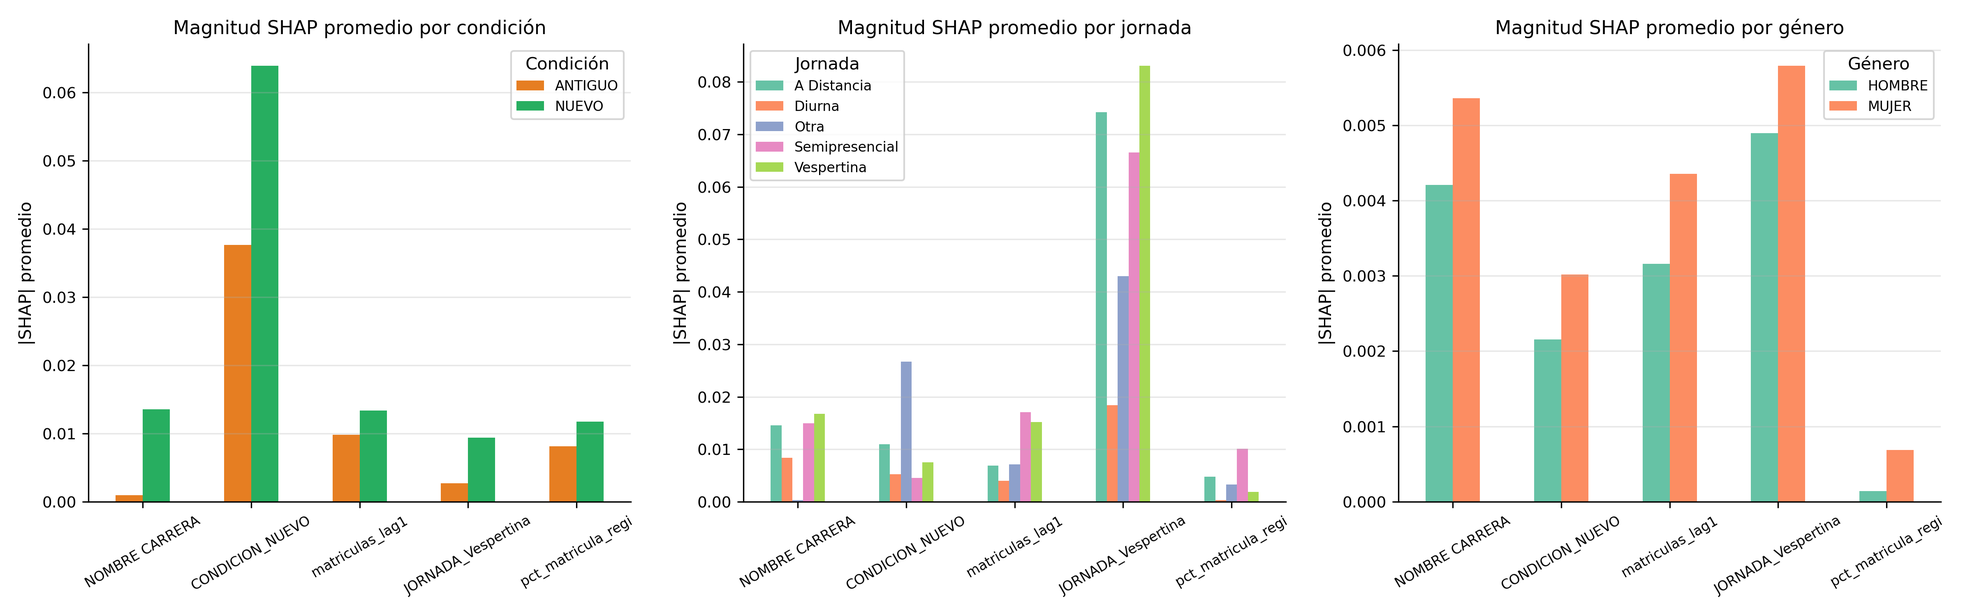
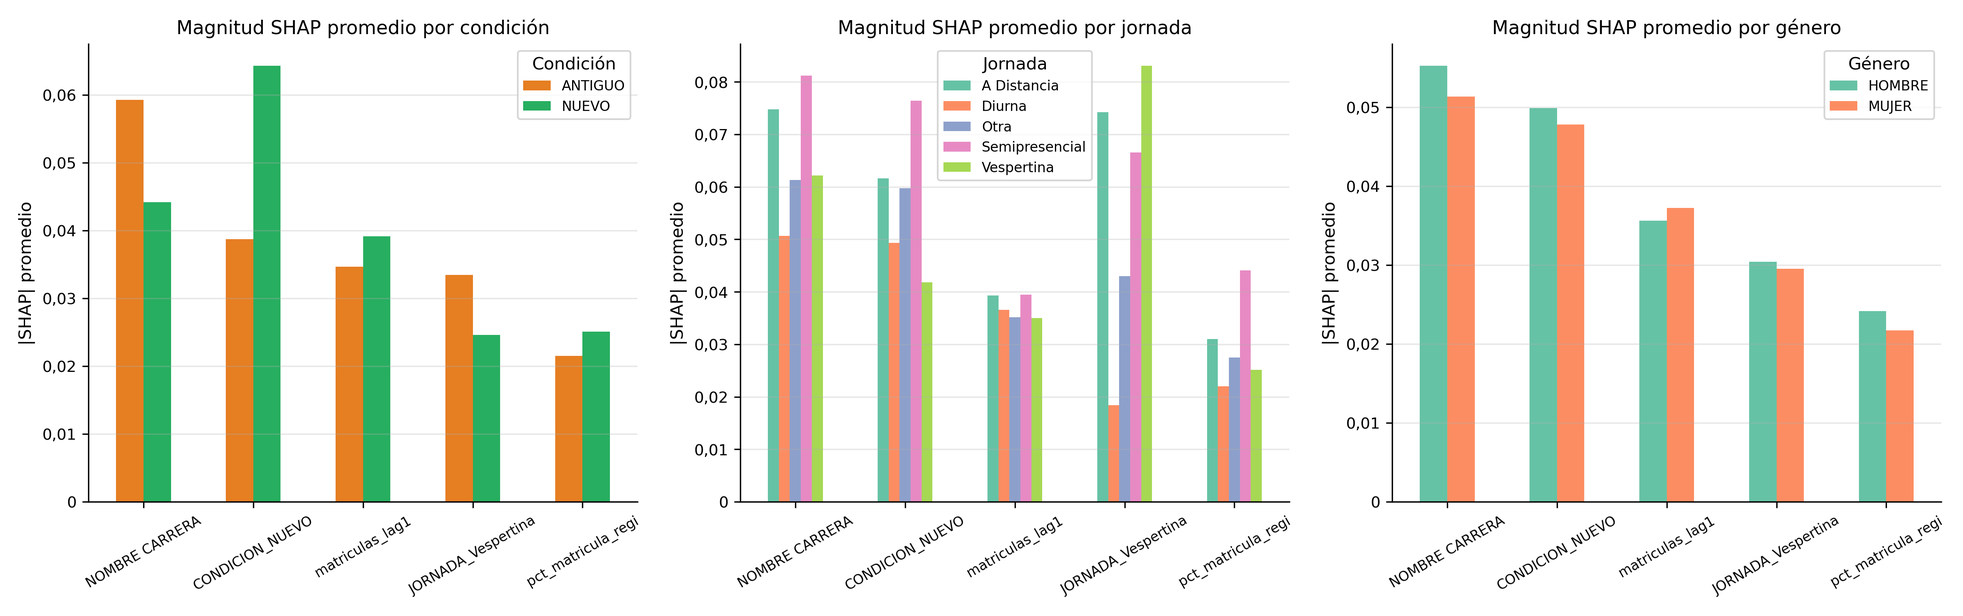
T-01 y T-02: fig07, fig08 y fig11 corregidas; congelamiento, PIB y desocupacion en los textos
fig07 con deciles por rezago (fig07b por matricula observada), fig08 con la matricula 2018
observada (cambia la regresion lineal de fig09 a -1,53 %), fig11 con la media de |SHAP| (fig11b con
signo). README, paper v4 y documento tecnico: estatus ex ante con la etiqueta forecast-2027, PIB en
volumen encadenado y desocupacion 2025 con 10 de 12 trimestres moviles.

diff --git a/README.md b/README.md
@@ -2,12 +2,12 @@
 
 # 🎓 Predicción de la dinámica de matrícula universitaria en Chile
 
-### _Machine learning_ a granularidad de programa, validado contra la matrícula real 2026, con pronóstico 2027 pre-registrado, intervalos conformes y una advertencia sobre el baseline
+### _Machine learning_ a granularidad de programa, validado contra la matrícula real 2026, con pronóstico 2027 *ex ante* congelado, intervalos conformes y una advertencia sobre el baseline
 
 [![Python](https://img.shields.io/badge/Python-3.12-3776AB?style=flat-square&logo=python&logoColor=white)](https://www.python.org/)
 [![License: MIT](https://img.shields.io/badge/License-MIT-yellow.svg?style=flat-square)](LICENSE)
 [![Version](https://img.shields.io/badge/Pipeline-v4%20%C2%B7%20corrida%202027-success?style=flat-square)](#-estado-y-versiones)
-[![Forecast](https://img.shields.io/badge/Forecast%202027-761.058-1565C0?style=flat-square)](#-pronóstico-2027-pre-registrado)
+[![Forecast](https://img.shields.io/badge/Forecast%202027-761.058-1565C0?style=flat-square)](#-pronóstico-2027-ex-ante-congelado)
 [![Validación](https://img.shields.io/badge/Validado%20contra-SIES%202026-2E7D32?style=flat-square)](#-validación-contra-el-dato-real-2026)
 [![CatBoost](https://img.shields.io/badge/Model-CatBoost-FFCC00?style=flat-square)](https://catboost.ai)
 [![Optuna](https://img.shields.io/badge/Tuning-Optuna-2DBCE0?style=flat-square)](https://optuna.org)
@@ -21,10 +21,10 @@
 > **TL;DR** — Pronóstico de matrícula universitaria chilena a granularidad fina (institución × carrera × región × jornada × género × condición × año), integrando 10 fuentes oficiales (7 bases públicas y 3 diccionarios de llaves). Entrenado sólo con datos hasta 2025 y contrastado contra la matrícula real 2026 publicada por el SIES, el modelo obtuvo **WAPE 11,49 % frente a 12,69 % de la persistencia**, un **_skill score_ de +26,71 % positivo en los 8 niveles de agregación** y un **error agregado de −0,01 %** sobre 721.747 matrículas. Re-estimado con datos hasta 2026 y el mismo método, pronostica para 2027 **761.058 matrículas (+2,62 % sobre las 741.615 observadas en 2026)**, publicadas antes del dato oficial. Las predicciones de v4 contrastadas contra el real 2026 llevan **intervalo al 90 %** por _conformal prediction_, con cobertura verificada de 92,5 %; los de la corrida 2027 se calibraron con el mismo método, y en su holdout 2026 cubren el 92,49 % de las celdas. El total 2027 lleva un rango indicativo de **719.308 a 777.914** matrículas, no conforme: ocho observaciones anuales no alcanzan para un cuantil con garantía. El hallazgo más transferible es metodológico: **el baseline naïve es la misma columna que el lag del modelo**, y un defecto en esa llave sesga el _skill score_ sin que ningún diagnóstico habitual lo detecte.
 
 > [!NOTE]
-> **Actualización de noviembre de 2026.** Con la matrícula 2026 del SIES y la base INDICES del CNED de agosto de 2026, el pipeline v4 se volvió a ejecutar sin cambios de método: entrena con 2018-2025, se evalúa a ciegas sobre 2026 y pronostica 2027. El pronóstico 2027 queda **publicado** en este repositorio antes del dato oficial y será la primera prueba limpia del pipeline corregido; su **congelamiento formal** —huella SHA-256 de modelo, metadata y predicciones, y etiqueta git anotada publicada en el remoto— está **pendiente** y debe completarse antes del 30-06-2027 (§24.5 del documento técnico). Los notebooks dejaron de publicarse: el método completo está en el [documento técnico funcional](Documents/DOCUMENTO_TECNICO_FUNCIONAL.md). Paper v4: [Markdown](Documents/OUTPUTS_PAPER/paper_modelo_matricula_chile_v4.md) · [PDF](Documents/paper_modelo_matricula_chile_v4.pdf). Las observaciones abiertas de la revisión de noviembre de 2026 están en [OBSERVACIONES_Y_MEJORAS.md](OBSERVACIONES_Y_MEJORAS.md).
+> **Actualización de noviembre de 2026.** Con la matrícula 2026 del SIES y la base INDICES del CNED de agosto de 2026, el pipeline v4 se volvió a ejecutar sin cambios de método: entrena con 2018-2025, se evalúa a ciegas sobre 2026 y pronostica 2027. El pronóstico 2027 queda **publicado** en este repositorio antes del dato oficial y será la primera prueba limpia del pipeline corregido; su **congelamiento formal** quedó hecho el 20-11-2026: etiqueta anotada `forecast-2027` en el remoto, con las huellas SHA-256 de predicciones, modelo, metadata y protocolo de evaluación (ver [Pronóstico 2027](#-pronóstico-2027-ex-ante-congelado)). Los notebooks dejaron de publicarse: el método completo está en el [documento técnico funcional](Documents/DOCUMENTO_TECNICO_FUNCIONAL.md). Paper v4: [Markdown](Documents/OUTPUTS_PAPER/paper_modelo_matricula_chile_v4.md) · [PDF](Documents/paper_modelo_matricula_chile_v4.pdf). Las observaciones abiertas de la revisión de noviembre de 2026 están en [OBSERVACIONES_Y_MEJORAS.md](OBSERVACIONES_Y_MEJORAS.md).
 
 > [!IMPORTANT]
-> **Si viste este repositorio en junio de 2026, esas cifras ya no son válidas.** La versión anterior (v3) reportaba R² = 0,936, un _skill_ de +77,4 % sobre el naïve, un forecast 2026 de 707.960 y «99,98 % de confianza» nacional. Al contrastar ese pronóstico —congelado el 17 de junio— contra el dato real 2026, el _skill_ resultó **−8,0 %**. La auditoría encontró dos defectos en la llave del lag que corrompían el target **y el propio baseline**. Corregidos, el modelo se reestimó en agosto con la misma ventana (≤2025) y sin ver ningún dato de 2026. Las cifras de validación contra el real 2026 de este README son de esa versión (v4). Son _out-of-sample_, pero no pre-registradas: la prueba limpia es el pronóstico 2027.
+> **Si viste este repositorio en junio de 2026, esas cifras ya no son válidas.** La versión anterior (v3) reportaba R² = 0,936, un _skill_ de +77,4 % sobre el naïve, un forecast 2026 de 707.960 y «99,98 % de confianza» nacional. Al contrastar ese pronóstico —congelado el 17 de junio— contra el dato real 2026, el _skill_ resultó **−8,0 %**. La auditoría encontró dos defectos en la llave del lag que corrompían el target **y el propio baseline**. Corregidos, el modelo se reestimó en agosto con la misma ventana (≤2025) y sin ver ningún dato de 2026. Las cifras de validación contra el real 2026 de este README son de esa versión (v4). Son _out-of-sample_, pero no prospectivas: la prueba limpia es el pronóstico 2027.
 
 ---
 
@@ -32,7 +32,7 @@
 
 - [Resumen ejecutivo](#-resumen-ejecutivo)
 - [Resultados destacados](#-resultados-destacados)
-- [Pronóstico 2027 (pre-registrado)](#-pronóstico-2027-pre-registrado)
+- [Pronóstico 2027 (*ex ante*, congelado)](#-pronóstico-2027-ex-ante-congelado)
 - [Validación contra el dato real 2026](#-validación-contra-el-dato-real-2026)
 - [Arquitectura del pipeline](#-arquitectura-del-pipeline)
 - [Fuentes de datos](#-fuentes-de-datos)
@@ -115,19 +115,19 @@ La exploración interactiva de la validación 2026 —cascada, desagregados, ben
 
 ---
 
-## 🔮 Pronóstico 2027 (pre-registrado)
+## 🔮 Pronóstico 2027 (ex ante, congelado)
 
 El pipeline v4, re-estimado con datos hasta 2026, pronostica **761.058 matrículas** para 2027 en 9.069 celdas de 53 universidades con programas vigentes en 2026: **+2,62 %** sobre las 741.615 matrículas observadas en 2026 en esas celdas. El rezago congelado de 75 de esas celdas es la matrícula 2026 recortada que usaba el panel (suman 740.318); el pronóstico no se modificó. Se publica antes de que el SIES publique la matrícula 2027 (julio de 2027) y no se modificará después.
 
-> [!WARNING]
-> **Congelamiento pendiente.** El protocolo de congelamiento (§24.5 del [documento técnico](Documents/DOCUMENTO_TECNICO_FUNCIONAL.md)) exige registrar en este repositorio la huella SHA-256 de modelo, metadata y predicciones, crear una etiqueta git anotada con la huella de las predicciones y publicarla en el remoto antes del 30-06-2027: «un registro sólo local no prueba nada». A la fecha de esta revisión (noviembre de 2026) no hay huella publicada ni etiqueta; la cifra está publicada, pero aún no formalmente congelada. Los intervalos al 90 % de esta corrida ya están calibrados (P-05, resuelto el 19-11-2026; ver «Banda al 90 %» abajo).
+> [!NOTE]
[1 lines of base64/hex data omitted]
 
 | Referencia | Crecimiento 2027 |
 |---|---:|
 | **Forecast del modelo** | **+2,62 %** |
 | Promedio de las variaciones 2024-2026 | +3,40 % |
 | Variación 2026 | +4,17 % |
-| Regresión lineal 2018-2026 | −1,27 % |
+| Regresión lineal 2018-2026 | −1,53 % |
 
 - **Composición**: crecen los alumnos antiguos (+3,44 %) y caen levemente los nuevos (−0,54 %). La modalidad diurna crece 2,3 %, la vespertina cae 5,9 % y la modalidad a distancia crece 14,6 %; esa última cifra merece cautela, porque en 2026 el modelo ya sobreestimó la modalidad a distancia (+16,3 % pronosticado, +7,3 % real).
 - **Precisión esperable**: en el holdout 2026 el modelo le gana a la persistencia en los ocho niveles de agregación, con WAPE de 2,76 % por institución y 12,27 % en la celda fina.
@@ -219,9 +219,9 @@ Los intervalos son conservadores, y se sabe por qué: la calibración incluye lo
 │ Backtesting temporal · SHAP · intervalos conformes al 90 %              │
 └────────────────────────────────────┬────────────────────────────────────┘
                                      ▼
-┌─ CONGELAMIENTO (PENDIENTE) ─────────────────────────────────────────────┐
-│ Pronóstico 2027: huella SHA-256 + etiqueta git anotada en el remoto,    │
-│ aún no realizado · plazo: antes del 30-06-2027 (doc. técnico §24.5)     │
+┌─ CONGELAMIENTO (20-11-2026) ────────────────────────────────────────────┐
+│ Pronóstico 2027 fijado: etiqueta anotada forecast-2027 en el remoto,    │
+│ huellas SHA-256 en forecast_2027/SHA256SUMS.txt · protocolo v2.2        │
 └────────────────────────────────────┬────────────────────────────────────┘
                                      ▼
 ┌─ 6 · VALIDACIÓN OUT-OF-TIME ────────────────────────────────────────────┐
@@ -242,8 +242,8 @@ Todas las fuentes son **públicas y oficiales**. Pueden descargarse directamente
 | **BaseINDICES CNED** | CNED | Aranceles, vacantes, puntajes de admisión, duración de carreras | 2005-2026 (2026 parcial) | [cned.cl/indices](https://www.cned.cl/bases-de-datos) |
 | **Cuerpo Docente CNED** | CNED | Número de docentes por grado académico y jornada | 2018-2025 | [cned.cl/indices](https://www.cned.cl/bases-de-datos) |
 | **Inmuebles e infraestructura CNED** | CNED | M² construidos, salas, oficinas por sede | 2018-2025 | [cned.cl/indices](https://www.cned.cl/bases-de-datos) |
-| **PIB regional** | Banco Central de Chile | PIB regional anual a precios corrientes (MM$) | 2018-2025 (2026 arrastrado) | [bcentral.cl](https://www.bcentral.cl/web/banco-central/areas/estadisticas) |
-| **Tasa de desocupación regional** | INE (SIMEL) | Tasa de desempleo anual por región y sexo | 2018-2025 (2026 arrastrado) | [ine.gob.cl](https://www.ine.gob.cl/) |
+| **PIB regional** | Banco Central de Chile | PIB regional anual en volumen a precios del año anterior encadenado, referencia 2018 (miles de millones de pesos encadenados; Banco Central, edición del 23-04-2026, cifras preliminares) | 2018-2025 (2026 arrastrado) | [bcentral.cl](https://www.bcentral.cl/web/banco-central/areas/estadisticas) |
+| **Tasa de desocupación regional** | INE (SIMEL) | Tasa de desocupación anual por región (ambos sexos): promedio de los trimestres móviles del año; 2025 con 10 de 12 | 2018-2025 (2026 arrastrado) | [ine.gob.cl](https://www.ine.gob.cl/) |
 | **Buscador de Empleabilidad e Ingresos** | mifuturo.cl | Retención de primer año, empleabilidad por carrera-institución | 2018-2025 | [mifuturo.cl](https://www.mifuturo.cl/) |
 | **Diccionario sede-región CNED** | CNED | Mapeo de códigos de sede a códigos INE de región (380 sedes) | Estático | CNED |
 | **Diccionario de instituciones** | SIES | Catálogo canónico de 220 instituciones | Estático | MINEDUC |
@@ -415,7 +415,7 @@ El procedimiento automatizado clasifica 2020 y 2022 como shock de nivel, tambié
 ## ⚠ Limitaciones
 
 - **El componente extrapolativo es nulo.** Los árboles no extrapolan el año, y las exógenas (PIB, desempleo, aranceles, docentes) se congelan en su último valor observado: en la práctica el forecast es una transformación aprendida del lag.
-- **La validación 2026 de v4 es _out-of-sample_ pero no pre-registrada.** El dato real 2026 motivó la auditoría que produjo esa versión. No hubo fuga —la ventana sigue cerrada en 2025 y el defecto era verificable con datos ≤2025—, pero la prueba limpia es el pronóstico 2027.
+- **La validación 2026 de v4 es _out-of-sample_ pero no prospectiva.** El dato real 2026 motivó la auditoría que produjo esa versión. No hubo fuga —la ventana sigue cerrada en 2025 y el defecto era verificable con datos ≤2025—, pero la prueba limpia es el pronóstico 2027.
 - **Exógenas arrastradas.** El PIB regional y la desocupación de 2026 no estaban publicados y se arrastraron desde 2025; el modelo ve un 2026 macroeconómico idéntico a 2025.
 - **Variables con información del año evaluado.** `densidad_estudiantes_m2`, `ratio_docente_estudiante` y `matriculas_sobre_pib` usan la matrícula agregada del mismo año que se predice, y las exógenas entran con su valor de ese año. Las métricas retrospectivas (OOF y holdout) pueden ser optimistas. El forecast no tiene el problema —esas variables quedan congeladas en el último año observado—, pero falta una ablación que mida el efecto.
 - **Fuga de hiperparámetros al OOF retrospectivo.** Se optimizan una vez sobre el CV y se reutilizan en los años tempranos, cuyas cifras deben leerse como indicativas. El holdout y el forecast no tienen este problema.
@@ -423,7 +423,7 @@ El procedimiento automatizado clasifica 2020 y 2022 como shock de nivel, tambié
 - **Cobertura**: sólo universidades (62 instituciones, unas 759.000 matrículas de pregrado en 2026). Dentro del subsector, el modelo cubre el 95,09 % de la matrícula; quedan fuera los programas nuevos y los de menos de 10 matriculados.
 - **Ñuble sin datos institucionales (P-02).** La reparación del nombre de Ñuble no surte efecto antes de las uniones: sus 3.474 filas del SIES (2,73 % del universo) entran sin código de región, de modo que docentes e inmuebles caen a la mediana global y los aranceles se imputan por la cascada. El PIB sí se corrige después. Se mantiene sin corregir para no cambiar la metodología publicada; la corrección será una versión metodológica nueva.
 - **Metadata de validación (P-03, corregida).** La metadata de la corrida registraba cinco _folds_, pero se ejecutaron siete (validación 2019-2025). Se corrigió el 19-11-2026, antes del congelamiento; era un defecto de trazabilidad y no alteraba las cifras.
-- **Pronóstico 2027 sin congelamiento formal (P-01).** La huella SHA-256 con etiqueta publicada sigue pendiente (ver [Pronóstico 2027](#-pronóstico-2027-pre-registrado)). Los intervalos conformes de la corrida 2027 ya están calibrados (P-05).
+- **Desocupación 2025 parcial.** La desocupación de 2025 promedia 10 de los 12 trimestres móviles del año (los publicados al ejecutar la corrida), y ese valor se arrastra a 2026 y 2027.
 - **Regiones pequeñas**: el desempeño cae en Aysén (WAPE OOF 25,4 %) y Tarapacá (18,6 %).
 - **Imputación extensa**: el 70,9 % de las filas tiene al menos una variable imputada.
 - **Compresión hacia la media**: el modelo acierta niveles y agregados, pero subestima la magnitud de los cambios; no sirve para rankear programas ni como alerta de contracción.
@@ -470,7 +470,7 @@ El procedimiento automatizado clasifica 2020 y 2022 como shock de nivel, tambié
 
 ### Otras direcciones futuras
 
-1. **La prueba pre-registrada de 2027.** El pronóstico 2027 ya está publicado, generado con el pipeline de v4 sin cambios de método; las mejoras irán en una pista aparte, contrastada por separado.
+1. **La prueba prospectiva de 2027.** El pronóstico 2027 está congelado (etiqueta `forecast-2027`), generado con el pipeline de v4 sin cambios de método; las mejoras irán en una pista aparte, contrastada por separado.
 2. **Explotar la estructura de cohorte**: la identidad ANTIGUO<sub>t</sub> ≈ retención × (ANTIGUO<sub>t−1</sub> + NUEVO<sub>t−1</sub>) está en los datos y no se usa.
 3. **Emparejar el contraste por código de carrera**, no por nombre: recupera 31 celdas y mueve el WAPE de 11,49 % a 11,24 %.
 4. **Dar un componente extrapolativo real** con proyecciones oficiales de las exógenas en vez de congelarlas.
@@ -484,11 +484,15 @@ El procedimiento automatizado clasifica 2020 y 2022 como shock de nivel, tambié
 
 | Versión | Fecha | Estado |
 |---|---|---|
-| **Corrida 2027** · `modelo_final_20261118_1345` | noviembre de 2026 | **Vigente.** Pipeline v4 sin cambios de método, entrenado con datos hasta 2026; pronóstico 2027 pre-registrado |
+| **Corrida 2027** · `modelo_final_20261118_1345` | noviembre de 2026 | **Vigente.** Pipeline v4 sin cambios de método, entrenado con datos hasta 2026; pronóstico 2027 *ex ante*, congelado el 20-11-2026 (`forecast-2027`) |
 | v4 · `modelo_final_20260813_1535` | agosto de 2026 | Llave del lag corregida, reestimado con ventana ≤2025, validado contra el real 2026 |
 | v3 · `modelo_final_20260617_0101` | junio de 2026 | Reemplazada. Su pronóstico, congelado antes de la publicación del SIES, dio _skill_ −8,0 % contra el real 2026 por el defecto de la llave del lag |
 
 El paper v3 (`paper_modelo_matricula_chile_v3_FINAL.md`) sigue disponible en el historial de este repositorio. También queda en el historial el PDF de v3 (`Documents/Predictive model of university admission.pdf`, eliminado del árbol el 19-11-2026); el PDF vigente es [`Documents/paper_modelo_matricula_chile_v4.pdf`](Documents/paper_modelo_matricula_chile_v4.pdf). La sección 5.1 del paper documenta qué cambió entre v3 y v4 y por qué.
+
+**Congelamiento del 20-11-2026.** El pronóstico 2027 y sus variantes quedaron congelados en [`forecast_2027/`](forecast_2027/) con la etiqueta anotada `forecast-2027` (commit `e1f9b448`), con protocolo de evaluación v2.2.
+
+**Correcciones de figuras del 20-11-2026.** fig07 agrupa los deciles por el rezago (antes, por la matrícula observada, lo que mostraba regresión a la media; esa versión queda como fig07b); fig08 grafica la matrícula observada de 2018 (antes, la suma de los rezagos de 2018, es decir, el nivel 2017), lo que cambia la regresión lineal de fig09 de −1,27 % a −1,53 %; fig11 grafica el promedio de |SHAP| por subgrupo (antes, el valor absoluto del promedio; la versión con signo queda como fig11b).
 
 **Corrección del 20-11-2026: evaluación contra la matrícula observada.** El panel guarda la tasa de crecimiento recortada a sus percentiles 1 y 99 (para entrenar) y reconstruía el «real» desde esa tasa, de modo que las métricas del holdout 2026 y del OOF se calculaban contra una matrícula levemente modificada en 1.430 filas de 2018-2026 (75 del holdout). Todas las cifras del holdout, del OOF y del holdout 2025 de v4 se recalcularon contra la matrícula observada del SIES; el holdout suma ahora 741.615, igual que el SIES crudo. No se reentrenó nada: cambian las métricas, no las predicciones. Las cifras de la validación de v4 contra el real 2026 no cambian, porque ya usaban el dato del SIES. El pronóstico 2027 (761.058) tampoco cambia, pero su crecimiento se expresa ahora sobre la base observada (+2,62 % sobre 741.615, antes +2,80 % sobre 740.318), y sus bandas al 90 % se recalibraron con residuos observados (cobertura 92,49 % en el holdout 2026).
 

diff --git a/Documents/OUTPUTS_PAPER/paper_modelo_matricula_chile_v4.md b/Documents/OUTPUTS_PAPER/paper_modelo_matricula_chile_v4.md
@@ -15,10 +15,16 @@ en 2026, pronóstico 2027) · modelo validado contra el dato real 2026: `modelo_
 > Las cifras de las secciones 3, 4 y 5.2-5.3 y 5.6-5.8 corresponden ahora a esa corrida. La validación
 > *out-of-time* de la sección 5.4 se conserva tal cual: mide el modelo anterior, entrenado hasta 2025,
 > contra el dato real 2026, y sigue siendo la evidencia principal del trabajo. El pronóstico 2027
-> (sección 5.9) se publica antes de que el SIES publique la matrícula 2027 y queda **pre-registrado**:
-> será la primera prueba limpia del pipeline corregido. El código fuente dejó de publicarse en este
+> (sección 5.9) se congeló el 20-11-2026, antes de que el SIES publique la matrícula 2027, con la
+> etiqueta anotada `forecast-2027` (*ex ante*, con sello temporal externo): será la primera prueba
+> limpia del pipeline corregido. El código fuente dejó de publicarse en este
 > repositorio; el método completo está descrito en el documento técnico funcional
 > (`Documents/DOCUMENTO_TECNICO_FUNCIONAL.md`).
+>
+> **Congelamiento y correcciones del 20 de noviembre de 2026.** El pronóstico 2027 se congeló con la
+> etiqueta `forecast-2027` (sección 5.9). La Figura 3 grafica ahora la matrícula observada de 2018 (antes
+> mostraba el nivel 2017), lo que cambia la regresión lineal de la Figura 6 a −1,53 %. El PIB regional es
+> volumen encadenado, no precios corrientes (Tabla 1).
 >
 > **Corrección del 20 de noviembre de 2026: evaluación contra la matrícula observada.** El panel
 > guarda la tasa de crecimiento recortada a sus percentiles 1 y 99 para entrenar, y la matrícula
@@ -66,7 +72,7 @@ siete *folds*, holdout ciego 2026— y *target encoding* calculado dentro de cad
 seleccionado (CatBoost, optimizado con Optuna) alcanza en el holdout 2026 un WAPE de 12,27 % frente
 al 13,09 % del baseline de persistencia, un R² de 0,9710 frente a 0,9666, y un *skill score* de
 +13,21 %. Pronostica para 2027 **761.058 matrículas** sobre el universo modelado, un crecimiento de
-**+2,62 %** sobre la matrícula observada de 2026; el pronóstico se publica antes del dato oficial y queda pre-registrado.
+**+2,62 %** sobre la matrícula observada de 2026; el pronóstico quedó congelado *ex ante* el 20-11-2026, con sello temporal externo (etiqueta `forecast-2027`).
 
 La contribución central no es ese número sino la verificación del pipeline contra un dato que ninguna
 etapa de entrenamiento ni de *tuning* vio: la matrícula real 2026 publicada por el SIES. Un pronóstico
@@ -264,8 +270,8 @@ Se integraron diez fuentes oficiales del ecosistema chileno de educación superi
 | BaseINDICES CNED | CNED | Aranceles, vacantes, puntajes de admisión, duración de carreras | 2005-2026 (2026 parcial) |
 | Cuerpo Docente CNED | CNED | Docentes por grado académico y jornada | 2018-2025 |
 | Inmuebles e infraestructura CNED | CNED | M² construidos, salas, oficinas por sede | 2018-2025 |
-| PIB regional | Banco Central | PIB regional anual a precios corrientes | 2018-2025 (2026 arrastrado) |
-| Tasa de desocupación regional | INE (SIMEL) | Desempleo anual por región y sexo | 2018-2025 (2026 arrastrado) |
+| PIB regional | Banco Central | PIB regional anual en volumen a precios del año anterior encadenado, referencia 2018 (miles de millones de pesos encadenados; Banco Central, edición del 23-04-2026, cifras preliminares) | 2018-2025 (2026 arrastrado) |
+| Tasa de desocupación regional | INE (SIMEL) | Promedio anual de los trimestres móviles por región, ambos sexos (2025: 10 de 12) | 2018-2025 (2026 arrastrado) |
 | Empleabilidad e ingresos | mifuturo.cl | Retención de primer año, empleabilidad por carrera-institución | 2018-2025 |
 | Diccionario sede-región | CNED | Mapeo de códigos de sede a códigos INE (380 sedes) | Estático |
 | Diccionario de instituciones | SIES | Catálogo canónico de 220 instituciones | Estático |
@@ -289,7 +295,7 @@ forecast 2026 cubría 55 instituciones, 53 de ellas presentes en el dato real 20
 
 **Supuestos de la corrida 2027.** Cuando una fuente todavía no publica el año más reciente, el
 pipeline arrastra su último valor y lo registra: el PIB regional y la desocupación de 2026 repiten
-los de 2025; la planta docente y la infraestructura toman el último año disponible; la retención y la
+los de 2025 (y la desocupación de 2025 promedia sólo 10 de sus 12 trimestres móviles); la planta docente y la infraestructura toman el último año disponible; la retención y la
 empleabilidad, la mediana histórica del programa. La base INDICES del CNED cubre 2026 sólo en parte.
 La edición 2026 del SIES revisa además la matrícula 2025 en +53 estudiantes respecto de la edición
 anterior.
@@ -576,8 +582,8 @@ la ventana de entrenamiento sigue cerrada en 2025 y ningún dato de 2026 entra a
 etapa. Lo que ocurrió es que el dato real 2026 actuó como **señal diagnóstica** que motivó auditar el
 pipeline, y la auditoría encontró un defecto que existía desde antes y era independiente de 2026 —de
 hecho, verificable enteramente sobre datos de 2018-2025—. Dicho esto, la distinción que corresponde
-mantener es que **v3 era un pronóstico pre-registrado y v4 es una reestimación posterior a conocer el
-resultado**. Las cifras de v4 sobre 2026 son *out-of-sample* pero no pre-registradas, y deben leerse
+mantener es que **v3 era un pronóstico *ex ante*, congelado antes del dato, y v4 es una reestimación posterior a conocer el
+resultado**. Las cifras de v4 sobre 2026 son *out-of-sample* pero no prospectivas, y deben leerse
 con ese matiz. La prueba limpia del pipeline corregido será el dato 2027 (sección 5.9).
 
 ### 5.2 Desempeño global
@@ -661,7 +667,7 @@ Las cifras de 2019 a 2025 no coinciden exactamente con las de v4 por tres motivo
 SIES revisa levemente los años anteriores, los hiperparámetros se eligieron sobre un *fold* más y el
 *target encoding* se ajusta con un año más de datos.
 
-![Figura 3. Backtesting agregado nacional: matrícula real, predicción OOF retrospectiva con su error anual y forecast 2027 (761.058). Las bandas marcan los años de shock de nivel](figuras/fig08_backtesting_temporal_MONEY_FIGURE.png)
+![Figura 3. Backtesting agregado nacional: matrícula observada 2018-2026 (SIES), predicción OOF retrospectiva con su error anual y pronóstico 2027 (761.058). Las bandas marcan los años de shock de nivel](figuras/fig08_backtesting_temporal_MONEY_FIGURE.png)
 
 ### 5.4 Validación out-of-time contra el dato real 2026
 
@@ -834,7 +840,7 @@ equivoca.
 Las dummies de shock pandémico **no aparecen entre las variables relevantes**, lo que era esperable
 dado que dos de las tres son constantes en cero (sección 4.5).
 
-### 5.9 Pronóstico 2027 (pre-registrado)
+### 5.9 Pronóstico 2027 (*ex ante*, congelado)
 
 La corrida 2027 pronostica **761.058 matrículas** en las 9.069 celdas de 53 instituciones con
 programas vigentes en 2026, un crecimiento de **+2,62 %** sobre las 741.615 matrículas observadas en 2026 en esas
@@ -842,15 +848,11 @@ mismas celdas (en 75 celdas, el rezago congelado es la matrícula 2026 recortada
 programas universitarios de pregrado que existían en 2026 con al menos diez matriculados, y deja fuera
 lo que se abra en 2027.
 
-**Estatus.** El pronóstico se publica en este repositorio antes de que el SIES publique la matrícula
-2027, prevista para julio de 2027, y no se modificará después. A diferencia de la reestimación v4
-sobre 2026, éste es un pronóstico pre-registrado del pipeline corregido: su contraste contra el dato
-real será la primera prueba limpia del método. Las mejoras de la sección 6.6 irán en una pista
-separada y no lo reemplazan.
[1 lines of base64/hex data omitted]
 
 **Contra baselines simples.** La Figura 6 compara el crecimiento pronosticado con tres referencias
 calculadas sobre la serie nacional: la variación promedio de 2024-2026 (+3,40 %), la variación de 2026
-(+4,17 %) y una regresión lineal sobre 2018-2026 (−1,27 %). El pronóstico queda 0,8 y 1,6 puntos por
+(+4,17 %) y una regresión lineal sobre 2018-2026 (−1,53 %). El pronóstico queda 0,8 y 1,6 puntos por
 debajo de las dos primeras. La regresión lineal es una referencia débil en este caso: 2026 quedó por
 encima de la tendencia de largo plazo, y la recta proyecta una caída que ninguna otra señal sugiere.
 
@@ -1079,7 +1081,7 @@ persistencia, *skill score* de +26,71 % **positivo en los ocho niveles de agrega
 agregado de −0,01 % con el crecimiento predicho (+2,26 %) prácticamente idéntico al observado
 (+2,27 %). Re-estimado con datos hasta 2026, el mismo pipeline obtiene en el holdout 2026 WAPE
 12,27 % contra 13,09 % y *skill* de +13,21 %, y pronostica para 2027 **761.058 matrículas (+2,62 %)**,
-pre-registradas antes del dato oficial. **Tercero**, intervalos de predicción conformes estratificados
+congeladas *ex ante* el 20-11-2026, antes del dato oficial. **Tercero**, intervalos de predicción conformes estratificados
 con cobertura empírica verificada de 92,5 % contra un objetivo de 90 %. **Cuarto**, la cuantificación
 del sesgo de *target encoding* mal aplicado en 3,2 % a 3,5 % del RMSE según la corrida, con la
 salvedad de que esa comparación también cambia la fórmula de suavizado. **Quinto**, y probablemente el

diff --git a/Documents/DOCUMENTO_TECNICO_FUNCIONAL.md b/Documents/DOCUMENTO_TECNICO_FUNCIONAL.md
@@ -185,7 +185,7 @@ La dificultad no está en el nivel: la matrícula es tan inercial que repetir el
 | 2 | Base INDICES: aranceles, puntajes, duración | CNED | Precio y selectividad | Institución × programa × región × año | 2005-2026 (2026 parcial) |
 | 3 | Cuerpo docente | CNED · INDICES | Composición del claustro | Institución × sede × año | 2005-2025 |
 | 4 | Inmuebles | CNED · INDICES | Infraestructura | Institución × sede × año | 2005-2025 |
-| 5 | PIB regional | Banco Central de Chile | Contexto macroeconómico | Región × año | 2013-2025, referencia 2018 |
+| 5 | PIB regional | Banco Central de Chile | Contexto macroeconómico | Región × año | 2013-2025; volumen a precios del año anterior encadenado, referencia 2018 |
 | 6 | Tasa de desocupación regional por sexo | INE | Contexto macroeconómico | Región × sexo × trimestre móvil | 2015-2025 |
 | 7 | Empleabilidad e ingresos | SIES · mifuturo.cl | Retención de primer año | Institución × carrera genérica × año | 2018-2025, un archivo por año |
 | 8 | Diccionario sede-región | Construido sobre el CNED | Llave regional de docentes e inmuebles | 380 sedes | — |
@@ -277,6 +277,8 @@ Cada fuente se procesa por separado y conserva su granularidad original. La inge
 | 2 | Se excluyen el subtotal regionalizado, el extrarregional y el PIB total |
 | 3 | Paso a formato largo año × región |
 | 4 | Cada nombre de región se traduce a la nomenclatura canónica con 16 equivalencias explícitas |
+
+**Serie.** PIB regional anual en volumen a precios del año anterior encadenado, referencia 2018 (miles de millones de pesos encadenados; Banco Central, edición del 23-04-2026, cifras preliminares). No son precios corrientes: la columna `pib_mm_pesos` es volumen encadenado.
 
 **Controles.** Toda región traducida existe en el diccionario y toda columna tiene traducción. **Salida:** 208 filas (16 regiones × 13 años, 2013-2025).
 
@@ -1300,7 +1302,7 @@ Dado el holdout (§10.6), A Distancia y Semipresencial deben leerse como prolong
 | Regla | Pronóstico 2027 | Crecimiento |
 |---|---:|---:|
 | Modelo | 761.058 | +2,62 % |
-| Tendencia lineal 2018-2026 | 732.231 | −1,27 % |
+| Tendencia lineal 2018-2026 | 730.266 | −1,53 % |
 | Promedio de años normales | 766.811 | +3,40 % |
 | Arrastre del crecimiento 2025-2026 | 772.526 | +4,17 % |
 
@@ -1308,7 +1310,7 @@ El modelo queda dentro del rango de las reglas basadas en crecimiento reciente y
 
 ### 19.4 · Evidencia *out-of-time*: validación 2026 de la v4 original
 
-La v4 original (agosto de 2026, entrenada con 2018-2025) pronosticó 2026 y se contrastó con el SIES del 10-07-2026. Ningún dato de 2026 entró al modelo, pero la corrección de la llave la motivó el mal resultado de v3 contra ese dato: es *out-of-sample* pero **no pre-registrada**. La prueba pre-registrada es el pronóstico 2027.
+La v4 original (agosto de 2026, entrenada con 2018-2025) pronosticó 2026 y se contrastó con el SIES del 10-07-2026. Ningún dato de 2026 entró al modelo, pero la corrección de la llave la motivó el mal resultado de v3 contra ese dato: es *out-of-sample* pero **no prospectiva**. La prueba prospectiva es el pronóstico 2027.
 
 | | Celdas | Matrículas 2026 |
 |---|---:|---:|
@@ -1389,7 +1391,7 @@ No medida.
 | 17 | **Shocks sensibles al preprocesamiento** | Dos de tres indicadoras constantes | Aceptado |
 | 18 | **Óptimo de iteraciones en el borde** | Posible mejora fuera del rango | Pendiente P-08 |
 | 19 | **Intervalos conservadores; total nacional sin garantía** | Bandas anchas | Aceptado |
-| 20 | **Validación 2026 de la v4 original no pre-registrada** | Evidencia más débil que la de 2027 | Se resuelve con P-01 |
+| 20 | **Validación 2026 de la v4 original no prospectiva** | Evidencia más débil que la de 2027 | Resuelto con P-01: pronóstico 2027 congelado el 20-11-2026 |
 | 21 | **Validación 2026 emparejada por nombre** | Por código se recuperan 31 celdas y 3.987 matrículas | Pendiente P-07 |
 
 > [!WARNING]
@@ -1403,7 +1405,7 @@ No medida.
 
 | # | Pendiente | Tipo | Qué destraba |
 |---|---|---|---|
-| P-01 | **Congelar el pronóstico 2027** con huella SHA-256 y etiqueta publicada antes del 30-06-2027 | Protocolo | La primera prueba pre-registrada del pipeline corregido |
+| P-01 | ~~Congelar el pronóstico 2027~~ **Resuelto el 20-11-2026**: etiqueta anotada `forecast-2027` (commit `e1f9b448`), huellas en `forecast_2027/SHA256SUMS.txt`, protocolo v2.2 | Protocolo | La primera prueba prospectiva del pipeline corregido |
 | P-02 | Corregir la región de Ñuble antes de las uniones institucionales | Datos | Docentes, inmuebles y aranceles de Ñuble. Es una versión metodológica nueva |
 | P-03 | ~~Corregir la metadata que registra cinco *folds*~~ **Resuelto el 19-11-2026**: la metadata registra siete *folds* con sus años, y el código los deriva de la partición ejecutada | Trazabilidad | Que la metadata diga lo ejecutado (siete) |
 | P-04 | Ablación de las tres variables con matrícula contemporánea | Método | Medir cuánto optimismo introducen |
@@ -1487,7 +1489,10 @@ En julio, al publicarse el SIES, primero se valida (C) y después se reentrena (
 | 5 | **Fuente atrasada**: se congela igual con el último año disponible. Una exógena atrasada degrada poco; un pronóstico sin congelar invalida la prueba |
 | 6 | **Al publicarse T+1**: se verifica la huella, se reconstruye el real, se verifica contra el informe oficial y se contrasta con la persistencia al lado (§15.6) |
 
-Es la lección de 2026: el pronóstico de v3 estaba congelado y su contraste reveló los defectos de la llave; la v4 corrigió después de conocer el resultado. **La prueba pre-registrada de la v4 es el pronóstico 2027.**
+Es la lección de 2026: el pronóstico de v3 estaba congelado y su contraste reveló los defectos de la llave; la v4 corrigió después de conocer el resultado. **La prueba prospectiva de la v4 es el pronóstico 2027 (*ex ante*, con sello temporal externo).**
+
+> [!NOTE]
[1 lines of base64/hex data omitted]
 
 ### 24.6 · Reglas de versión y re-ejecución
 
@@ -1534,6 +1539,7 @@ Los parámetros metodológicos —llave del lag, lista de variables, semilla, en
 | 1.0 | 2026-11-18 | Re-estimación con datos hasta 2026 (18-11-2026) | Versión inicial; reemplaza la publicación de los notebooks |
 | 2.0 | 2026-11-19 | La misma | Formato técnico-funcional por audiencias: ficha, reglas de negocio, demostración con una celda real, parámetros, controles con resultado, supuestos y riesgos, pendientes y observaciones |
 | 2.1 | 2026-11-20 | La misma | **Evaluación contra la matrícula observada.** El panel guarda la tasa recortada a sus percentiles 1 y 99 (para entrenar) y la matrícula «real» de la evaluación se reconstruía desde ella (1.430 filas de 2018-2026, 75 del holdout). Se recalcularon contra el SIES las cifras del holdout, del OOF y del holdout 2025 de v4 (§10, §15.5, §19), las bandas (§11) y la auditoría de §6.4, sin reentrenar. El pronóstico 2027 no cambia; su base observada es 741.615 (+2,62 %). La validación de v4 contra el real 2026 no cambia |
+| 2.2 | 2026-11-20 | La misma | Pronóstico 2027 congelado (etiqueta `forecast-2027`, protocolo v2.2; P-01 resuelto). PIB descrito como volumen encadenado, referencia 2018. Tendencia lineal 2018-2026 de §19.3 recalculada con la matrícula observada de 2018 (−1,53 %) |
 
 ---
 
